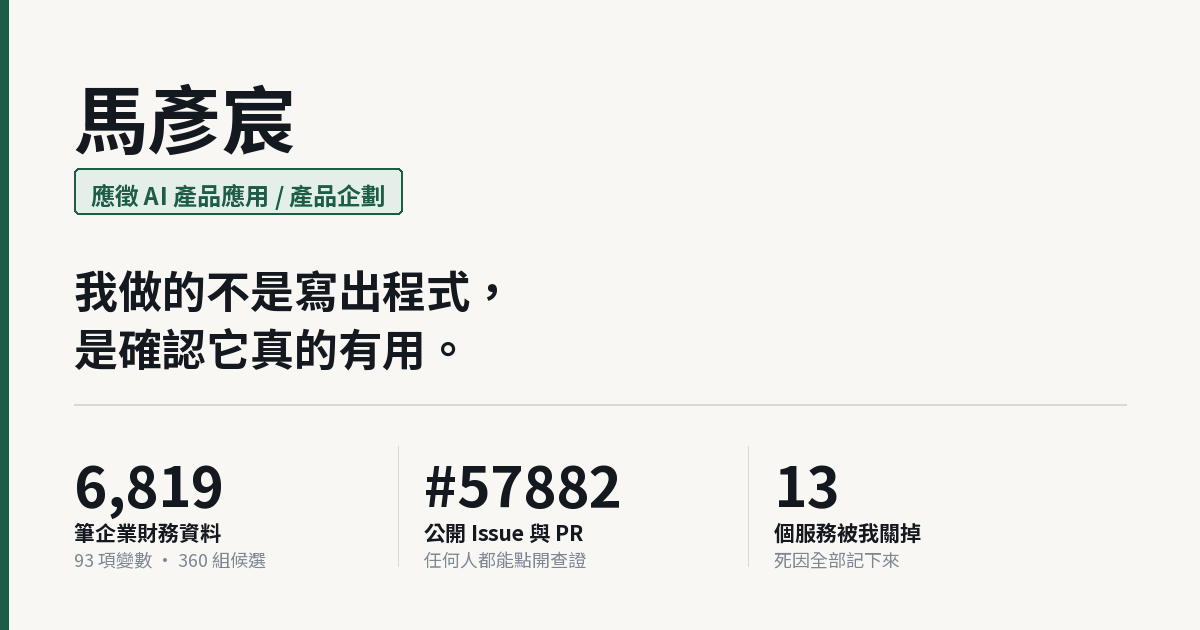
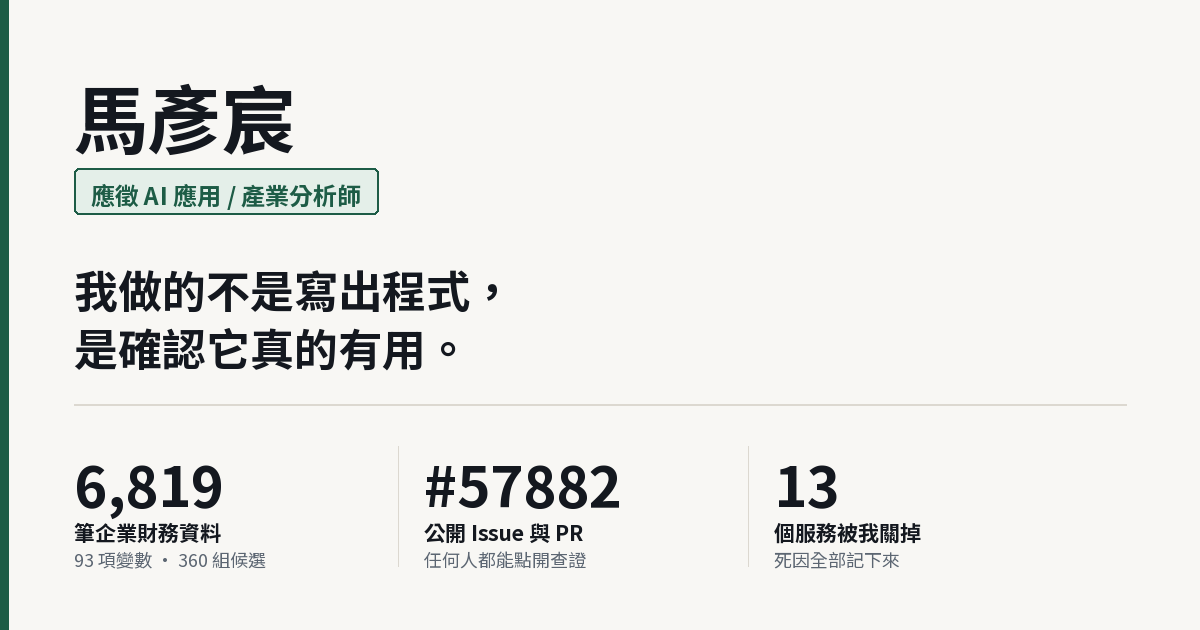
Change the stated target role to AI application / industry analyst
Updated in the four places it appears: the hero badge, the footer, the
OpenGraph image alt text, and the share image itself.

diff --git a/app/layout.tsx b/app/layout.tsx
@@ -15,7 +15,7 @@ export const metadata: Metadata = {
       url: "/",
       type: "website",
       locale: "zh_TW",
-      images: [{ url: "/og-v5.png", width: 1200, height: 630, alt: "馬彥宸｜應徵 AI 產品應用 / 產品企劃。6,819 筆企業財務資料、公開 Issue 與 PR、13 個服務被我關掉。" }],
+      images: [{ url: "/og-v5.png", width: 1200, height: 630, alt: "馬彥宸｜應徵 AI 應用 / 產業分析師。6,819 筆企業財務資料、公開 Issue 與 PR、13 個服務被我關掉。" }],
     },
     twitter: {
       card: "summary_large_image",

diff --git a/app/components/SiteChrome.tsx b/app/components/SiteChrome.tsx
@@ -18,7 +18,7 @@ export function SiteHeader({ project }: { project?: string }) {
 export function SiteFooter() {
   return (
     <footer className="footer">
-      <span>馬彥宸 · 應徵 AI 產品應用 / 產品企劃</span>
+      <span>馬彥宸 · 應徵 AI 應用 / 產業分析師</span>
       <span>新竹・桃園・雙北皆可</span>
       <a href="https://github.com/y3ccc" target="_blank" rel="noreferrer">
         GitHub ↗

diff --git a/app/page.tsx b/app/page.tsx
@@ -82,7 +82,7 @@ export default function Home() {
       <SiteHeader />
       <main className="shell">
         <section className="hero">
-          <span className="role">應徵 AI 產品應用 / 產品企劃</span>
+          <span className="role">應徵 AI 應用 / 產業分析師</span>
           <h1>
             我做的不是寫出程式，
             <br />
